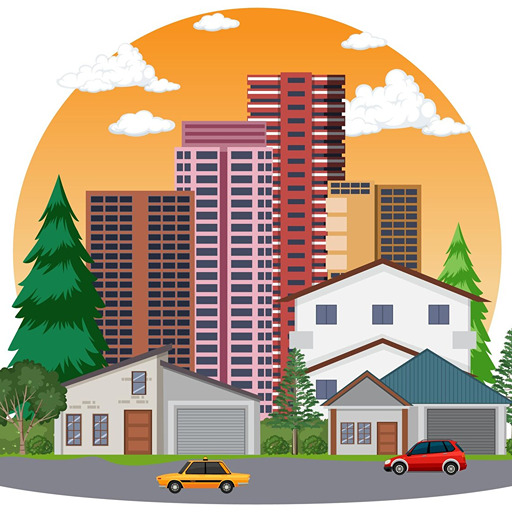
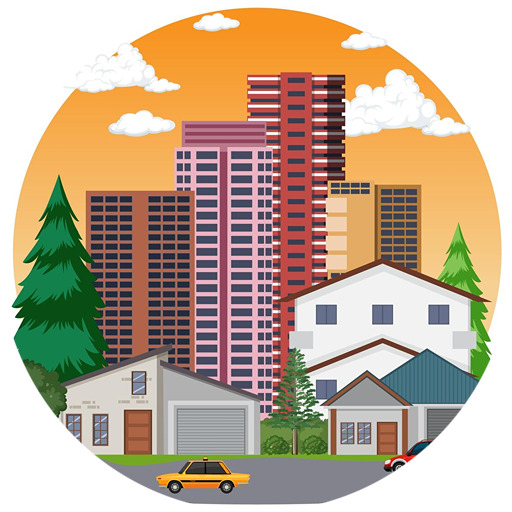
Updating to latest FlutterFlow output.

Changed region(s): [[0.625, 0.625, 1.0, 1.0], [0.0, 0.6562, 0.375, 1.0]]

diff --git a/lib/flutter_flow/nav/nav.dart b/lib/flutter_flow/nav/nav.dart
@@ -285,7 +285,7 @@ class FFRoute {
                   child: Center(
                     child: Image.asset(
                       'assets/images/urban-landscape-with-houses-buildings_1308-128068.jpg',
-                      width: MediaQuery.sizeOf(context).width * 0.6,
+                      height: MediaQuery.sizeOf(context).height * 0.2,
                       fit: BoxFit.cover,
                     ),
                   ),
